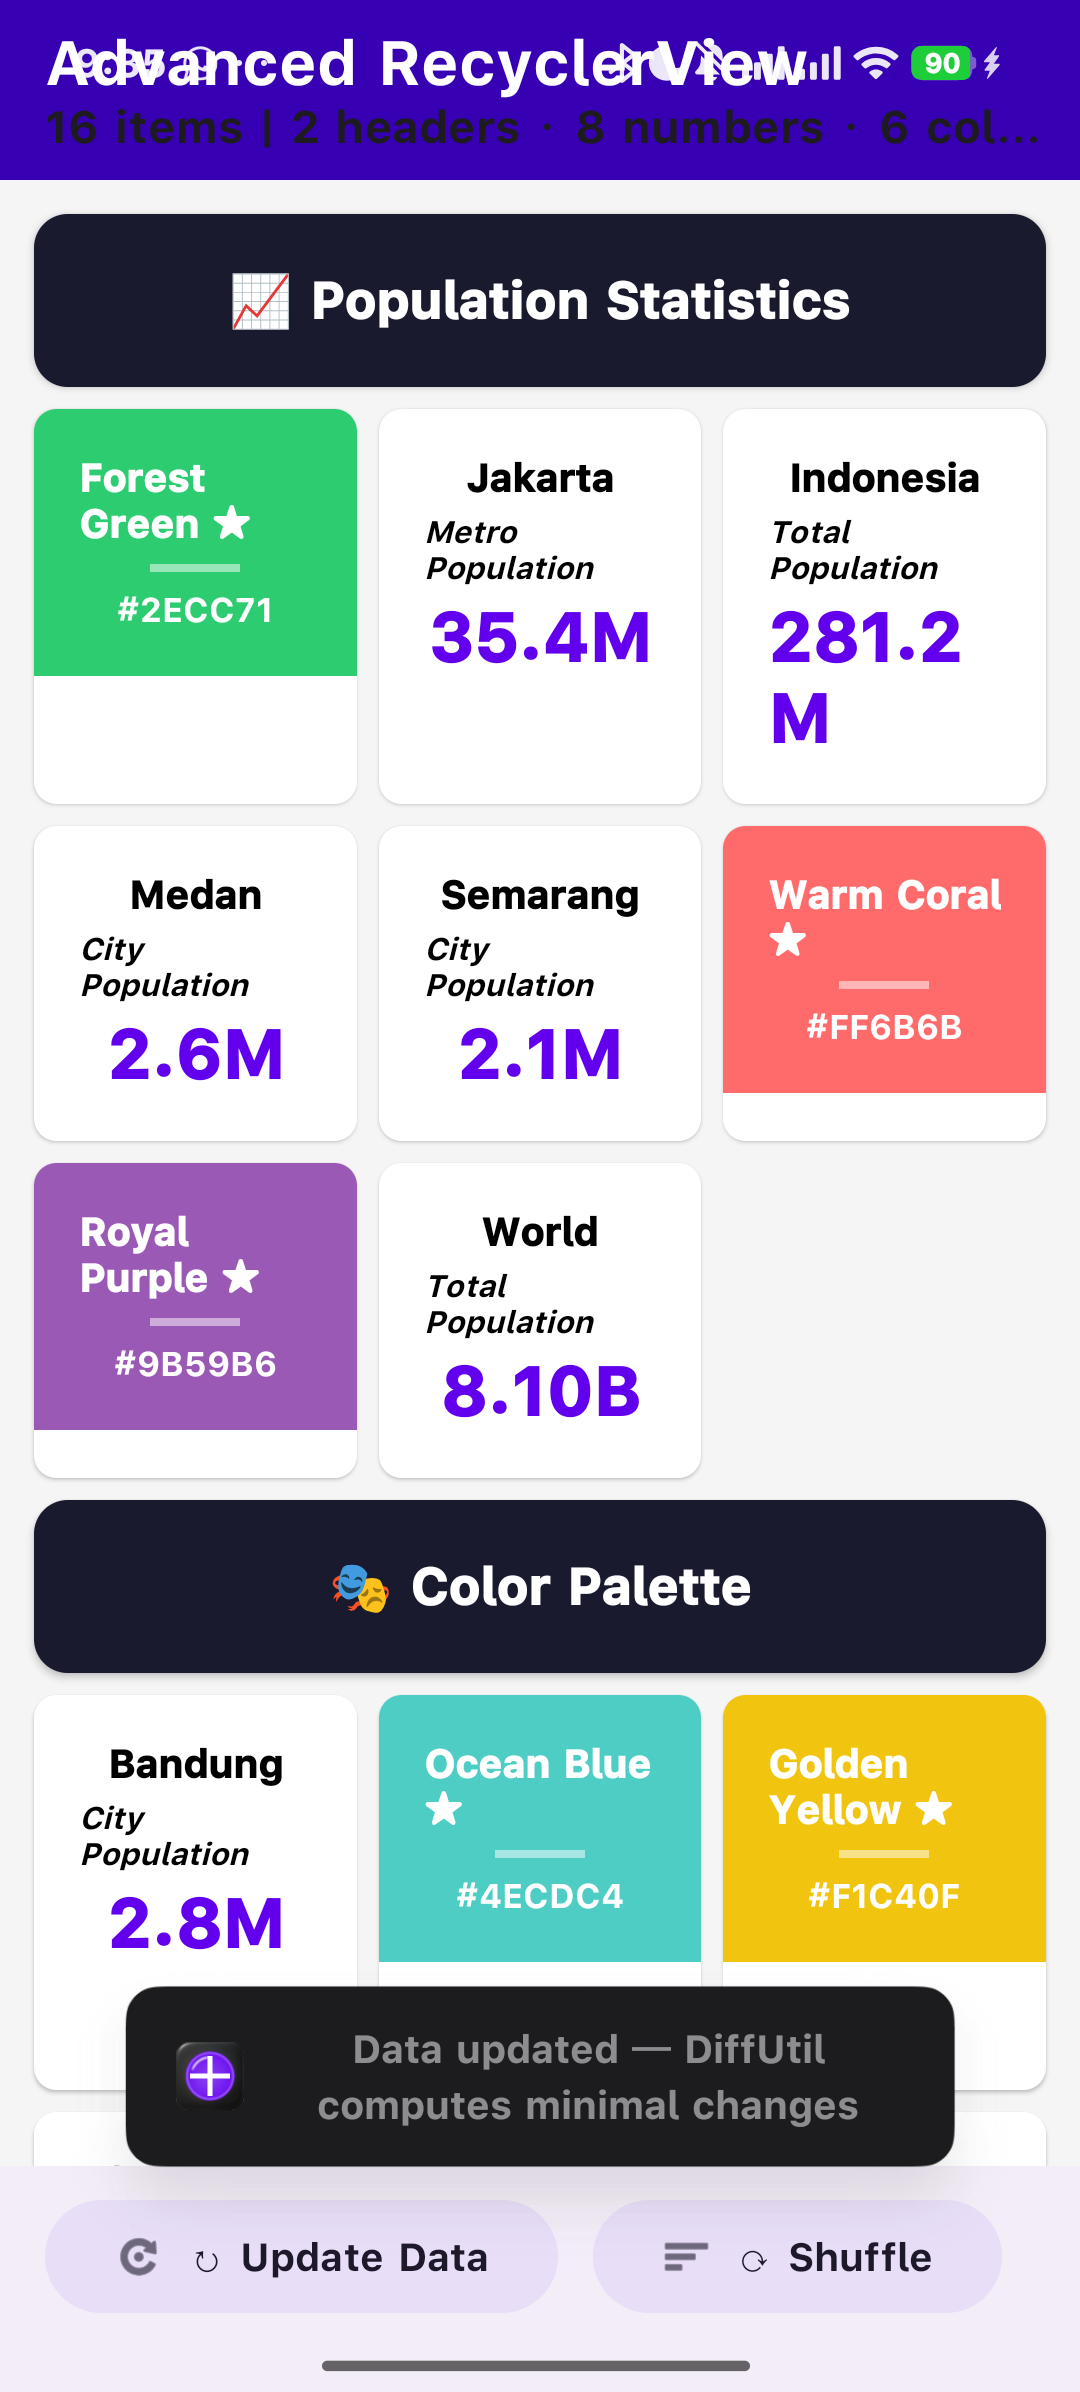
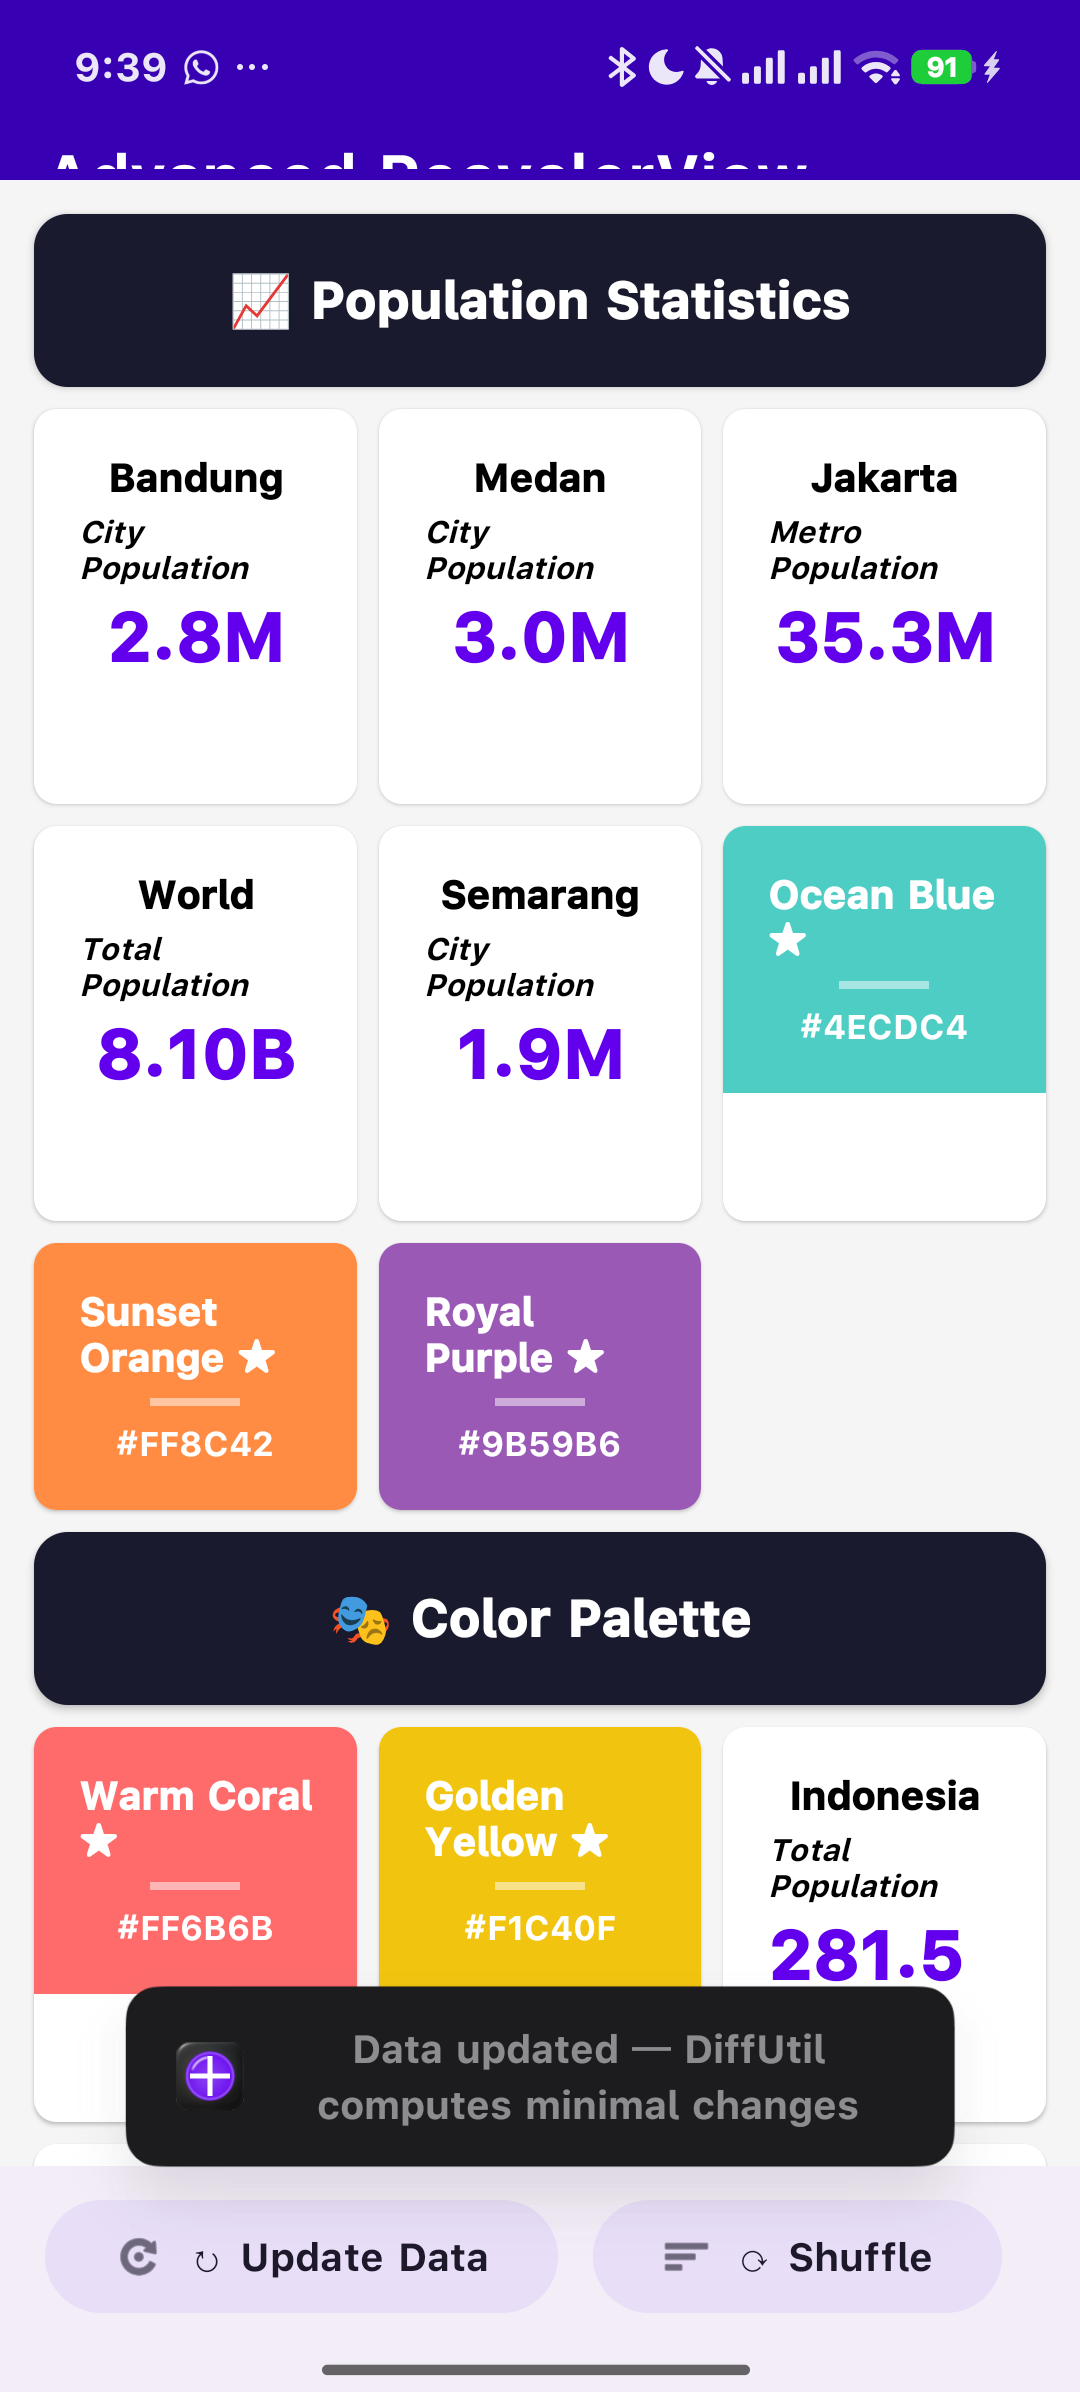
fix: tambah setupInsets untuk status bar padding, update screenshot

diff --git a/app/src/main/java/com/example/tugas10/MainActivity.kt b/app/src/main/java/com/example/tugas10/MainActivity.kt
@@ -1,10 +1,12 @@
 package com.example.tugas10
 
 import android.os.Bundle
-
 import android.widget.Toast
 import androidx.activity.enableEdgeToEdge
 import androidx.appcompat.app.AppCompatActivity
+import androidx.core.view.ViewCompat
+import androidx.core.view.WindowInsetsCompat
+import androidx.core.view.updatePadding
 import androidx.databinding.DataBindingUtil
 import androidx.lifecycle.ViewModelProvider
 import androidx.recyclerview.widget.GridLayoutManager
@@ -38,6 +40,7 @@ class MainActivity : AppCompatActivity() {
         setupRecyclerView()
         setupObservers()
         setupButtons()
+        setupInsets()
     }
 
     private fun setupRecyclerView() {
@@ -88,6 +91,19 @@ class MainActivity : AppCompatActivity() {
         binding.btnShuffle.setOnClickListener {
             viewModel.shuffleData()
             Toast.makeText(this, "Items shuffled — only moved items re-render", Toast.LENGTH_SHORT).show()
+        }
+    }
+
+    private fun setupInsets() {
+        ViewCompat.setOnApplyWindowInsetsListener(binding.root) { v, insets ->
+            val systemBars = insets.getInsets(
+                WindowInsetsCompat.Type.systemBars()
+            )
+            binding.toolbar.updatePadding(top = systemBars.top)
+            binding.bottomBar.updatePadding(
+                bottom = systemBars.bottom
+            )
+            insets
         }
     }
 }